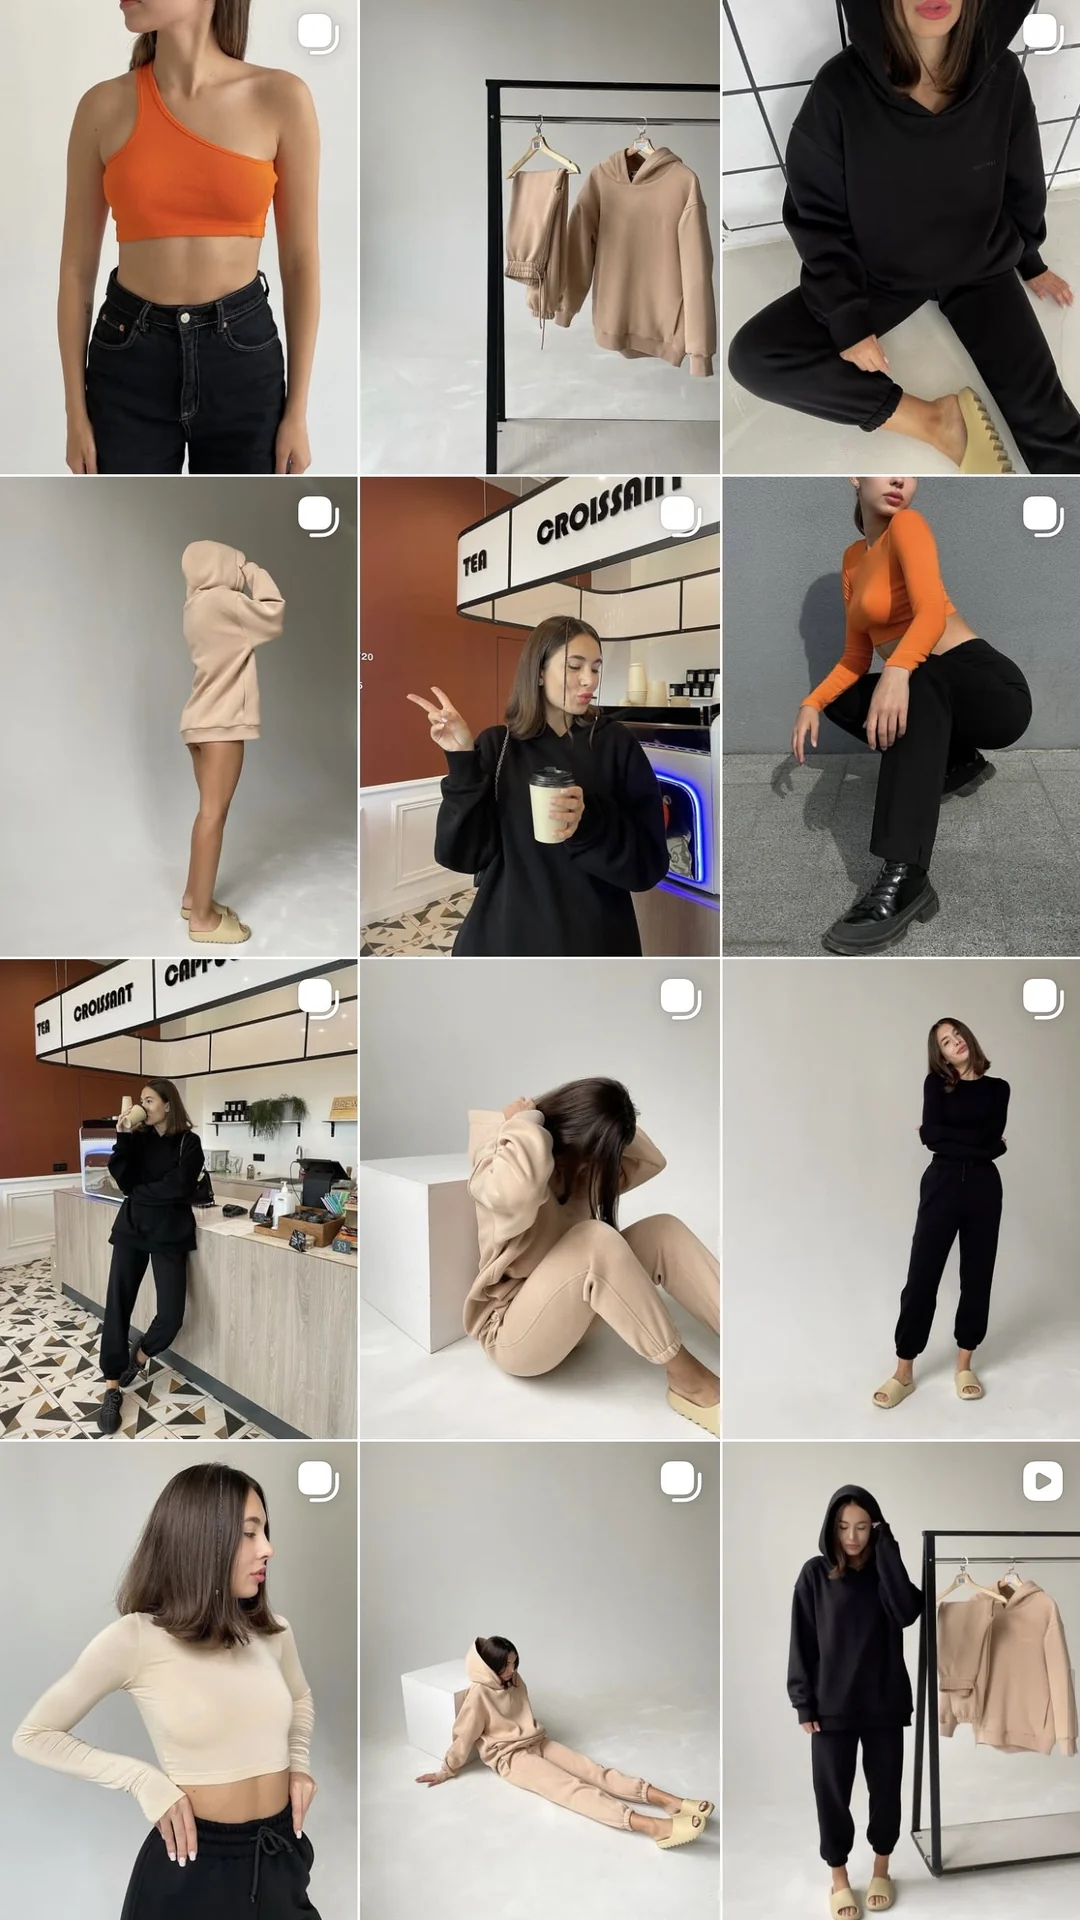
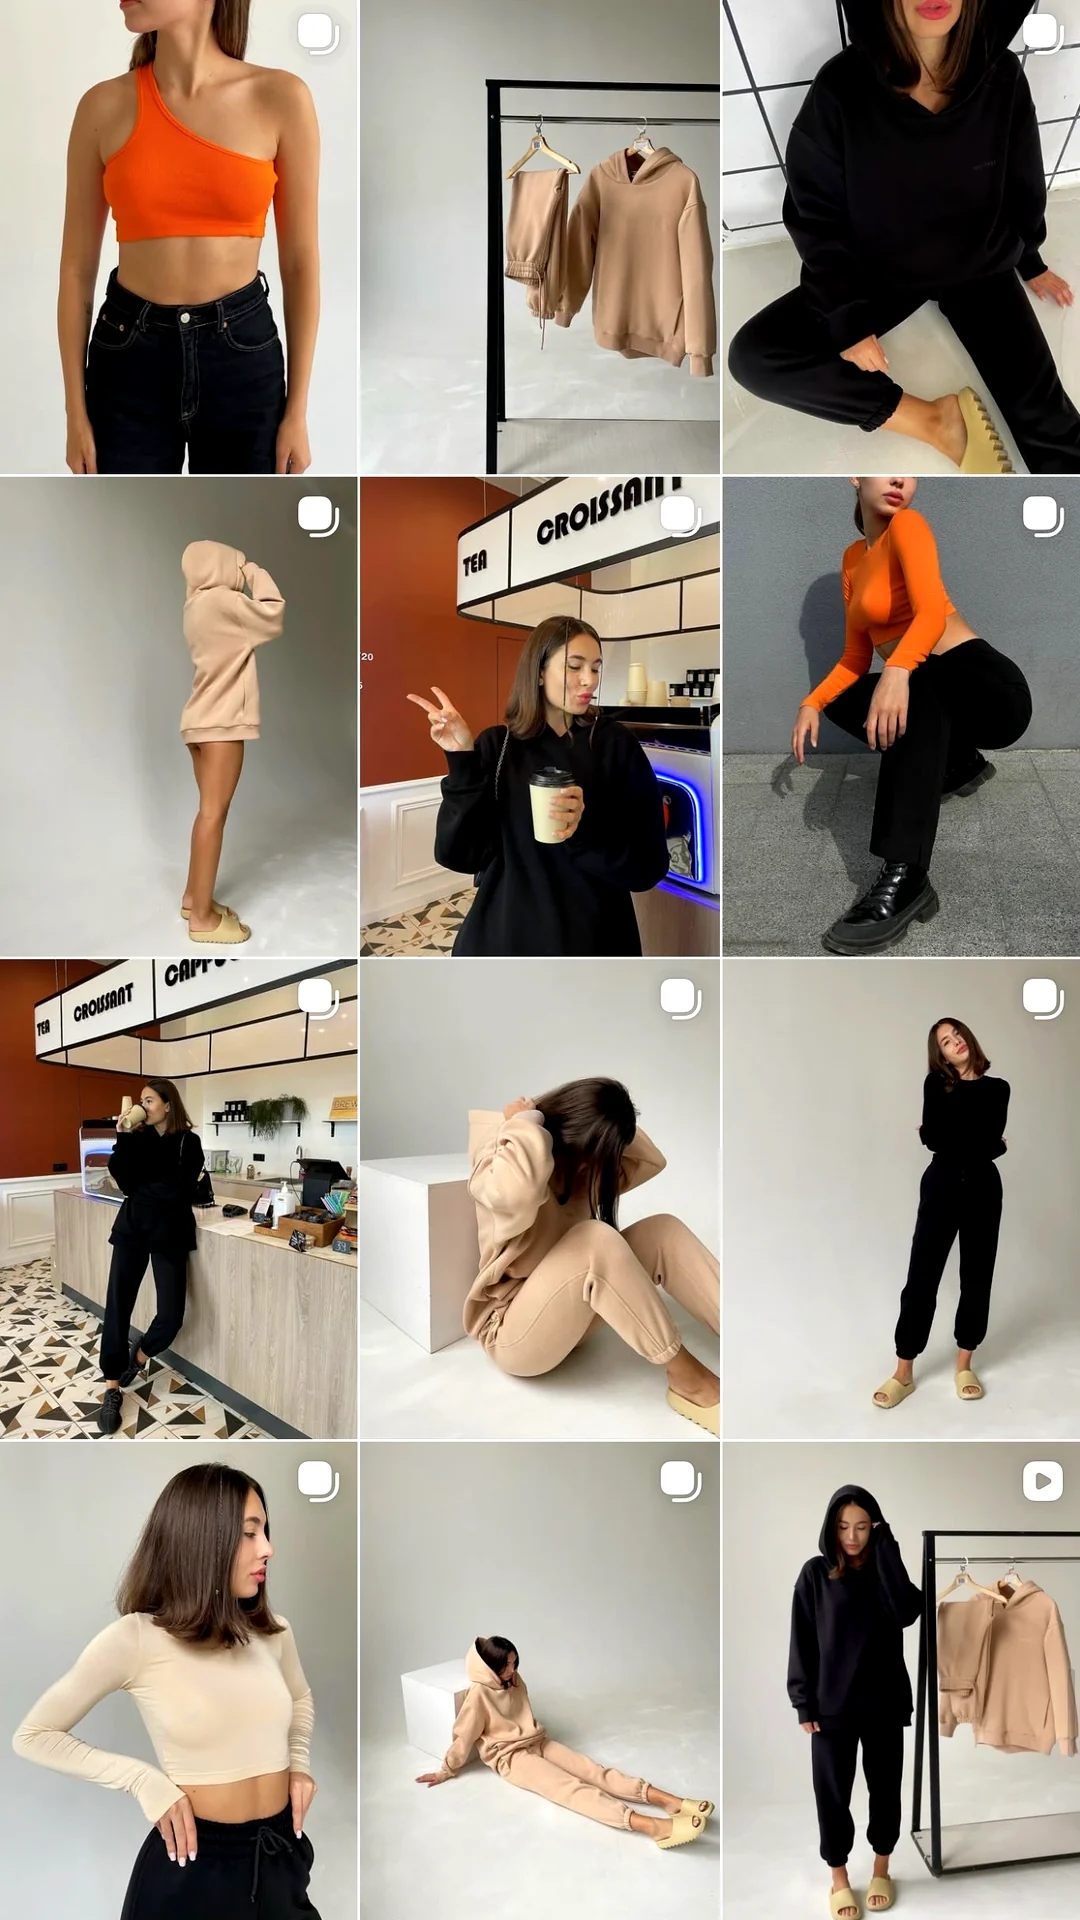
Draft: Beliq Wear media without phone frames, punchier feed images
Claude-Session: https://claude.ai/code/session_015ajLCE8DqyvE7oMDfjLNRz

diff --git a/js/main.js b/js/main.js
@@ -85,14 +85,14 @@ const CASES = [
       { to: 100, suffix: '+', label: 'influencer collaborations' },
     ],
     items: [
-      // Instagram feed screenshots, shown inside phone frames
-      { src: 'assets/cases/beliq/feed-01.webp', ratio: '9:16', phone: true, alt: 'Beliq Wear Instagram feed: neutral loungewear collection' },
-      { src: 'assets/cases/beliq/feed-02.webp', ratio: '9:16', phone: true, alt: 'Beliq Wear Instagram feed: green, orange and white basics' },
-      { src: 'assets/cases/beliq/feed-03.webp', ratio: '9:16', phone: true, alt: 'Beliq Wear Instagram feed: pink and white summer collection' },
+      // Instagram feed screenshots
+      { src: 'assets/cases/beliq/feed-01.webp', ratio: '9:16', alt: 'Beliq Wear Instagram feed: neutral loungewear collection' },
+      { src: 'assets/cases/beliq/feed-02.webp', ratio: '9:16', alt: 'Beliq Wear Instagram feed: green, orange and white basics' },
+      { src: 'assets/cases/beliq/feed-03.webp', ratio: '9:16', alt: 'Beliq Wear Instagram feed: pink and white summer collection' },
       // Videos (Reels) — PLACEHOLDERS: upload the .mp4 files and a still frame (.jpg) for each
-      { type: 'video', src: 'assets/cases/beliq/reel-01.mp4', poster: 'assets/cases/beliq/reel-01.jpg', ratio: '9:16', phone: true, alt: 'Beliq Wear reel 1' },
-      { type: 'video', src: 'assets/cases/beliq/reel-02.mp4', poster: 'assets/cases/beliq/reel-02.jpg', ratio: '9:16', phone: true, alt: 'Beliq Wear reel 2' },
-      { type: 'video', src: 'assets/cases/beliq/reel-03.mp4', poster: 'assets/cases/beliq/reel-03.jpg', ratio: '9:16', phone: true, alt: 'Beliq Wear reel 3' },
+      { type: 'video', src: 'assets/cases/beliq/reel-01.mp4', poster: 'assets/cases/beliq/reel-01.jpg', ratio: '9:16', alt: 'Beliq Wear reel 1' },
+      { type: 'video', src: 'assets/cases/beliq/reel-02.mp4', poster: 'assets/cases/beliq/reel-02.jpg', ratio: '9:16', alt: 'Beliq Wear reel 2' },
+      { type: 'video', src: 'assets/cases/beliq/reel-03.mp4', poster: 'assets/cases/beliq/reel-03.jpg', ratio: '9:16', alt: 'Beliq Wear reel 3' },
     ],
   },
   {
